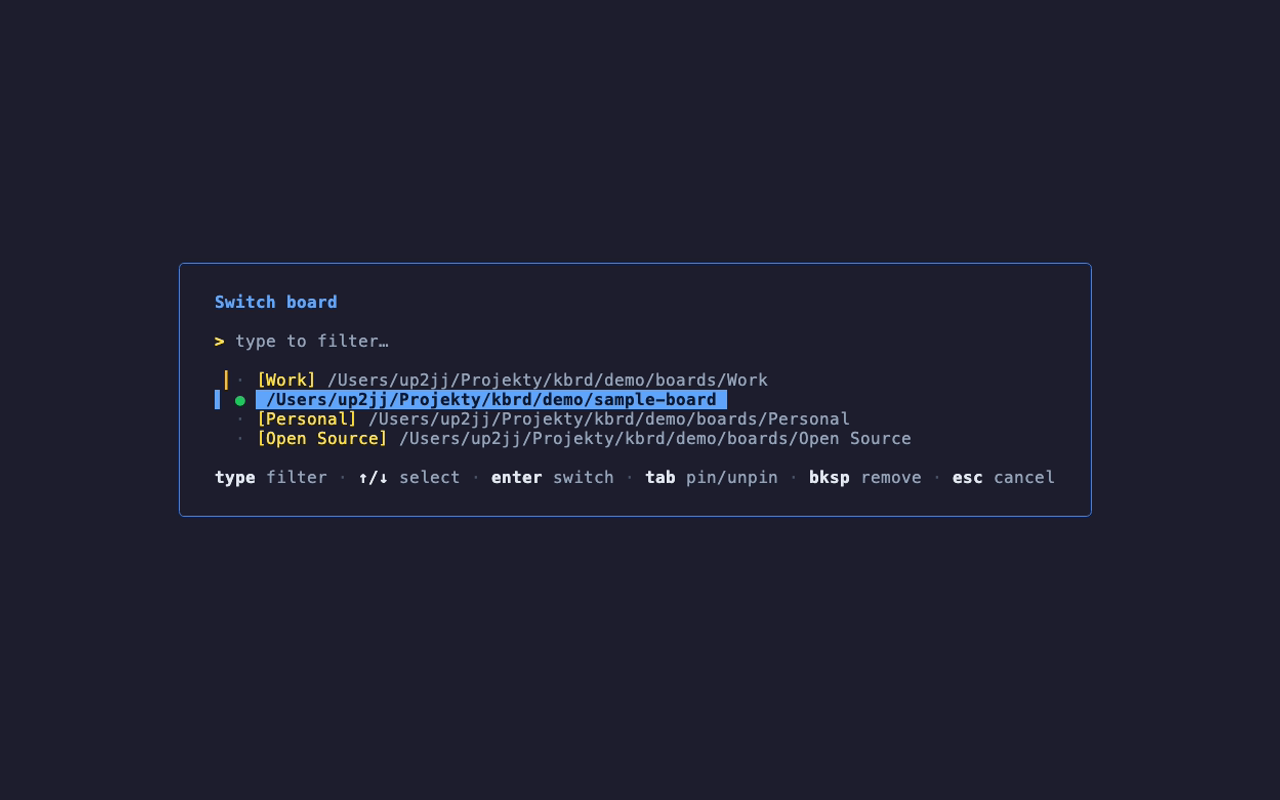
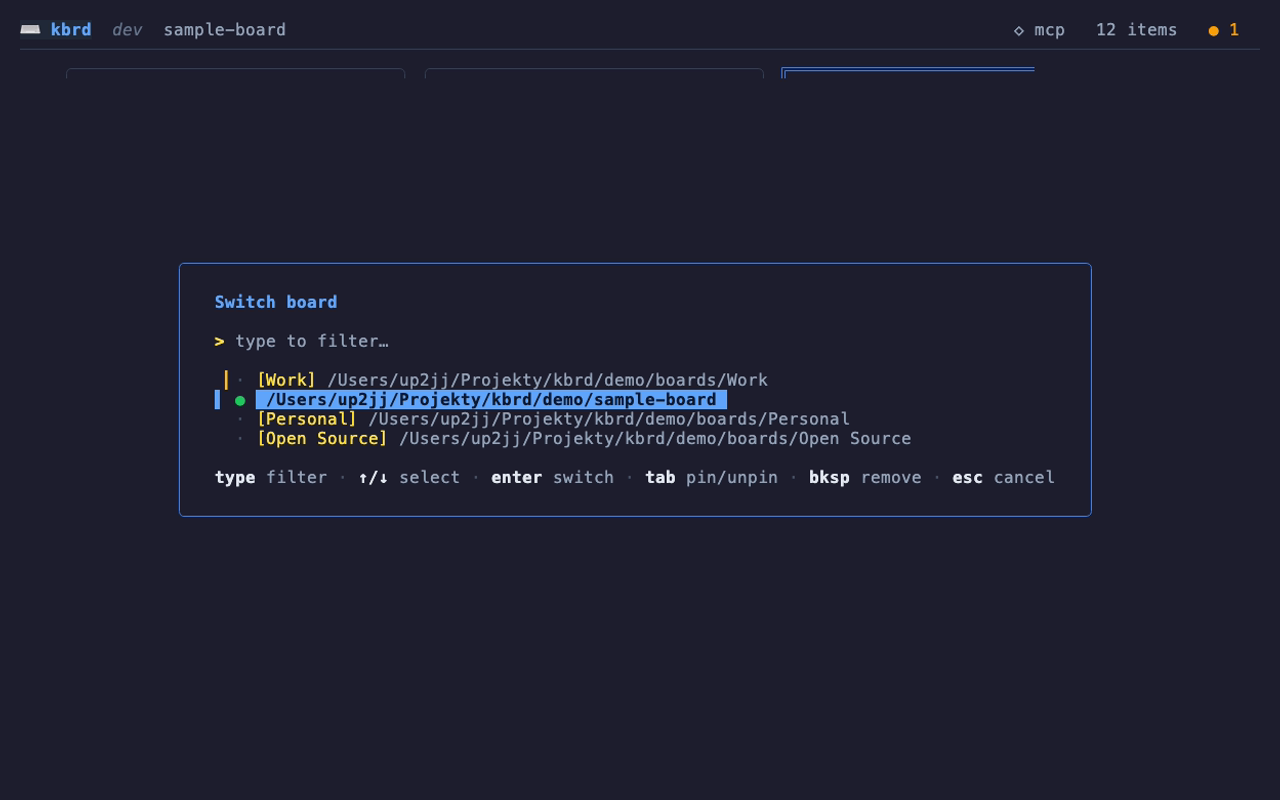
docs(screenshots): capture template form, virtual column, and zoom mode
Extend the VHS screenshot suite to cover features that shipped after the
gallery was last generated. seed.sh now drops a board-wide template
(.kbrd_templates/bug.md) and the tasks virtual-column script (.kbrd.lua)
into the sample board; the tape captures the template form (t), the Lua
Tasks column (tab), and a zoomed column (+). README gains the three shots.

Changed region(s): [[0.5938, 0.0312, 0.9688, 0.0938], [0.0, 0.0312, 0.2188, 0.0625]]

diff --git a/README.md b/README.md
@@ -114,6 +114,22 @@ A quick, scannable rundown of everything kbrd does:
     <td align="center"><em>Run templated shell commands on a card (<code>x</code>)</em></td>
     <td align="center"><em>Discover every shortcut with the help overlay (<code>?</code>)</em></td>
   </tr>
+  <tr>
+    <td width="50%"><img src="docs/screenshots/template.png" alt="Multi-step card template form" width="100%"></td>
+    <td width="50%"><img src="docs/screenshots/virtual-column.png" alt="Lua-driven virtual column" width="100%"></td>
+  </tr>
+  <tr>
+    <td align="center"><em>Create cards from a multi-step template form (<code>t</code>)</em></td>
+    <td align="center"><em>Lua-driven virtual columns, e.g. open tasks (<code>tab</code>)</em></td>
+  </tr>
+  <tr>
+    <td width="50%"><img src="docs/screenshots/zoom.png" alt="Zoomed single column" width="100%"></td>
+    <td width="50%"></td>
+  </tr>
+  <tr>
+    <td align="center"><em>Zoom a single column for focused reading (<code>+</code>)</em></td>
+    <td></td>
+  </tr>
 </table>
 
 ---